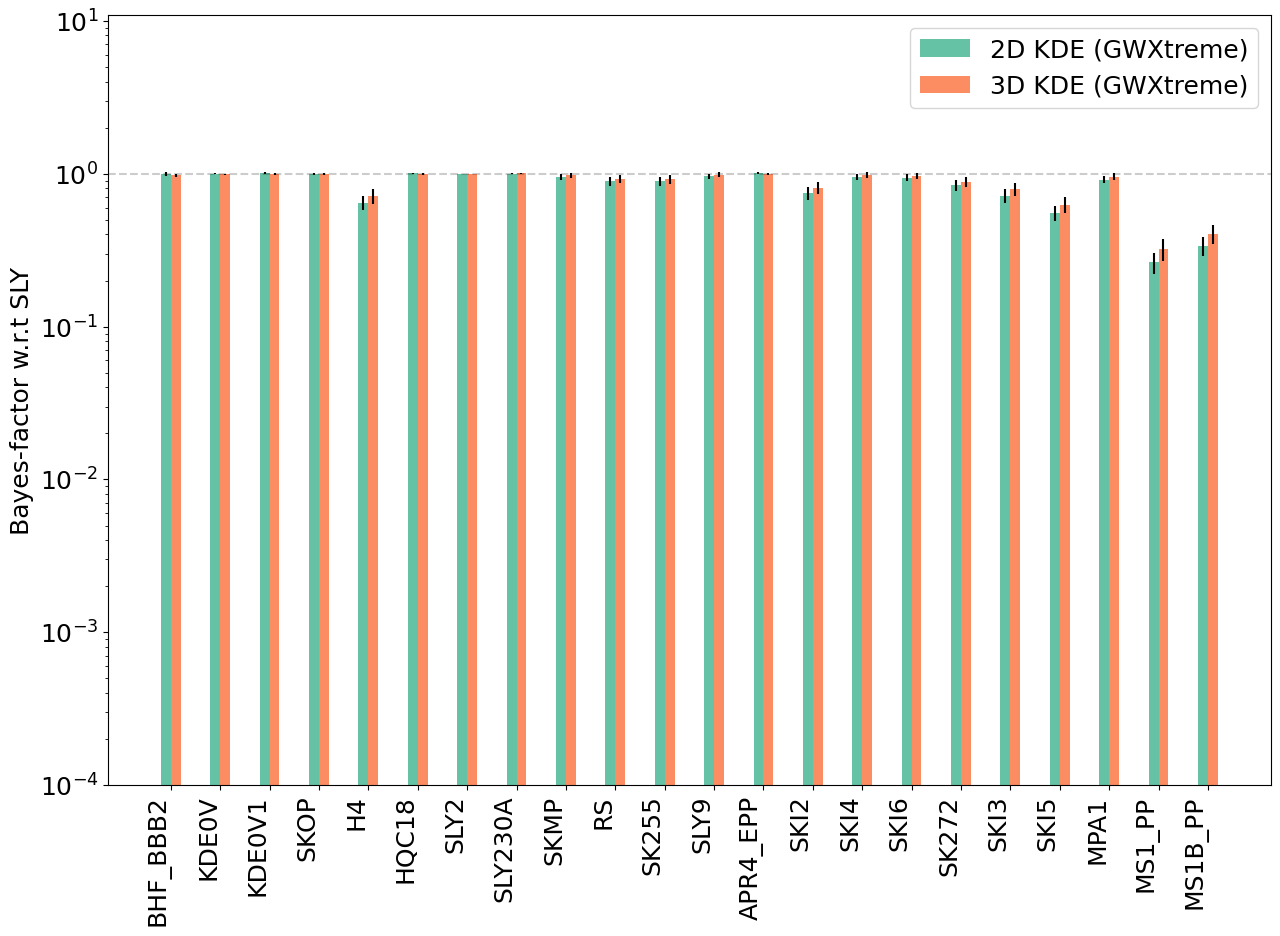
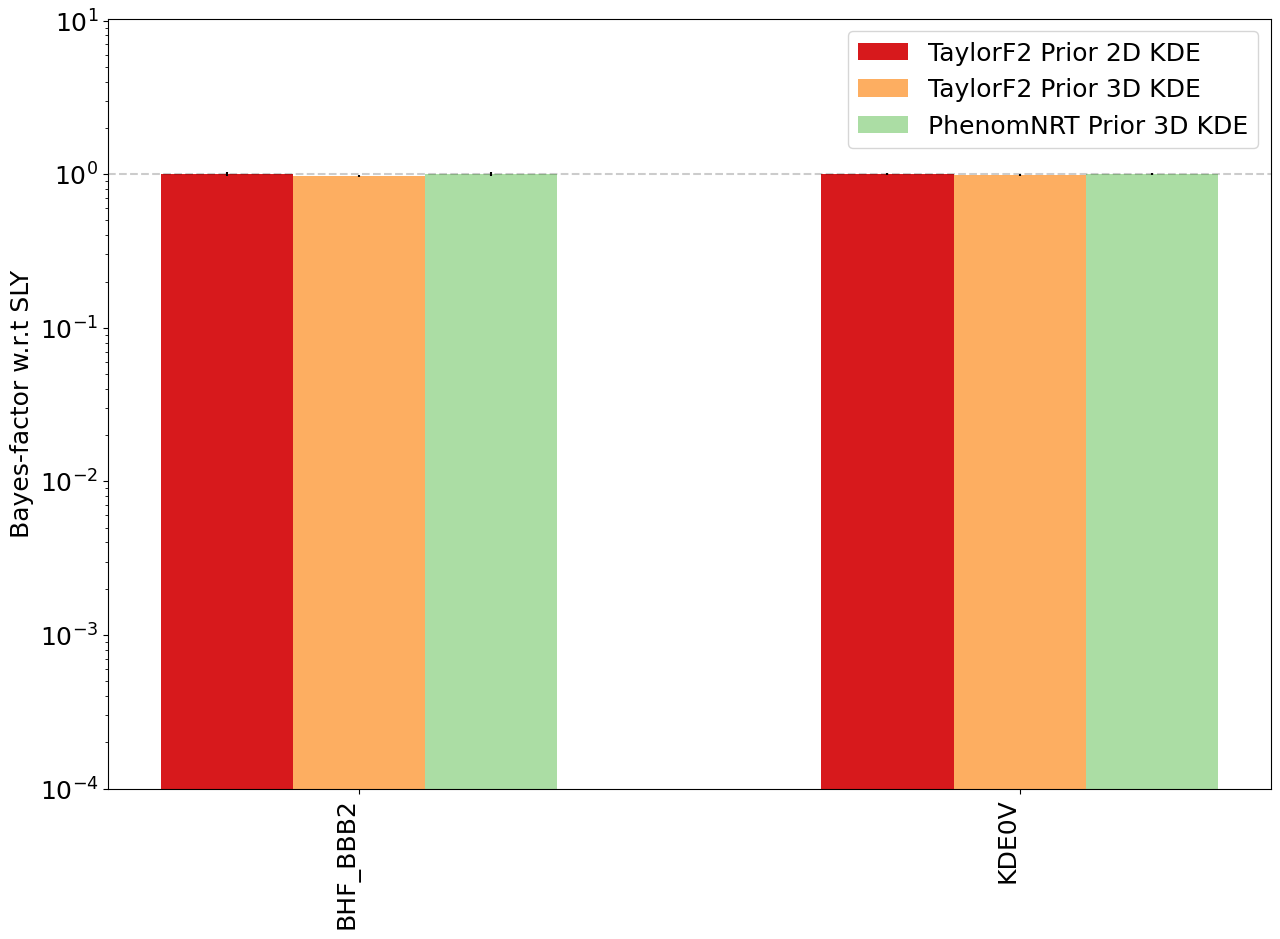
test run of the simulation BFs.

diff --git a/year3/lastStretch/simulBFs.py b/year3/lastStretch/simulBFs.py
@@ -3,6 +3,7 @@ import numpy as np
 import matplotlib.pyplot as plt
 import json
 import glob
+import os.path
 
 def singleEventBFs(Trials=1000):
 
@@ -15,6 +16,7 @@ def singleEventBFs(Trials=1000):
                   "71_1.37_1.33", "55_1.38_1.33", "78_1.35_1.32",
                   "241_1.31_1.28", "220_1.36_1.24", "282_1.35_1.32", "149_1.35_1.23", "237_1.36_1.26", 
                   "138_1.5_1.21", "235_1.4_1.3", "219_1.3_1.28", "260_1.48_1.33", "164_1.34_1.19"]
+    injections = ["282_1.58_1.37"] 
 
     #filenameEnd = "bns_example_result.json"
     filenameEnd = "bns_example_result_simplified.json"
@@ -43,6 +45,7 @@ def singleEventBFs(Trials=1000):
 
         methods = [modsel_uLTs, modsel_uLs,modsel_phenomPhenom]
         eosList = ["BHF_BBB2","KDE0V","KDE0V1","SKOP","H4","HQC18","SLY2","SLY230A","SKMP","RS","SK255","SLY9","APR4_EPP","SKI2","SKI4","SKI6","SK272","SKI3","SKI5","MPA1","MS1_PP","MS1B_PP"]
+        eosList = ["BHF_BBB2","KDE0V"]
         methods_BFs = []
         methods_trials = []
         for method in methods:
@@ -68,29 +71,28 @@ def singleEventBFs(Trials=1000):
             with open(output,"r") as f:
                 Dictionary = json.load(f)
 
-        for Index in range(len(labels)):
-            dictionary = {}
-            for eIndex in range(len(eosList)):
-                dictionary[eosList[eIndex]] = [methods_BFs[Index][eIndex],methods_trials[Index][eIndex]]
-            Dictionary[labels[Index]] = dictionary
+            for Index in range(len(labels)):
+                dictionary = {}
+                for eIndex in range(len(eosList)):
+                    dictionary[eosList[eIndex]] = [methods_BFs[Index][eIndex],methods_trials[Index][eIndex]]
+                Dictionary[labels[Index]] = dictionary
 
-        with open(output,"w") as f:
-            json.dump(Dictionary, f, indent=2, sort_keys=True)
+            with open(output,"w") as f:
+                json.dump(Dictionary, f, indent=2, sort_keys=True)
 
         else: # First time doing this sort of run so new file is made@
             Dictionary = {labels[Index]:{eosList[eIndex]:[methods_BFs[Index][eIndex],methods_trials[Index][eIndex]] for eIndex in range(len(eosList))} for Index in range(len(labels))}
             with open(output,"w") as f:
                 json.dump(Dictionary, f, indent=2, sort_keys=True)
 
-
 def singleEventPlots():
 
-    Dir = "/home/michael/projects/eos/GWXtreme_Tasks/year3/PhenomTaylorCompare/plots/data/"
-#    injections = ["282_1.58_1.37", "202_1.35_1.14", "179_1.35_1.23", "122_1.77_1.19", 
-#                  "71_1.37_1.33", "55_1.38_1.33", "78_1.35_1.32",
-#                  "241_1.31_1.28", "220_1.36_1.24", "282_1.35_1.32", "149_1.35_1.23", "237_1.36_1.26", 
-#                  "138_1.5_1.21", "235_1.4_1.3", "219_1.3_1.28", "260_1.48_1.33", "164_1.34_1.19"]
-    injections = ["282_1.58_1.37", "122_1.77_1.19", "55_1.38_1.33"] 
+    Dir = "/home/michael/projects/eos/GWXtreme_Tasks/year3/lastStretch/plots/data"
+    injections = ["282_1.58_1.37", "202_1.35_1.14", "179_1.35_1.23", "122_1.77_1.19", 
+                  "71_1.37_1.33", "55_1.38_1.33", "78_1.35_1.32",
+                  "241_1.31_1.28", "220_1.36_1.24", "282_1.35_1.32", "149_1.35_1.23", "237_1.36_1.26", 
+                  "138_1.5_1.21", "235_1.4_1.3", "219_1.3_1.28", "260_1.48_1.33", "164_1.34_1.19"]
+    injections = ["282_1.58_1.37"] 
 
     for injection in injections:
 
@@ -99,17 +101,12 @@ def singleEventPlots():
             data = json.load(f)
 
 
-#        labels = ["Phenom-Taylor (dL~,L~) Uniform Prior", "(Phenom-Taylor (L1,L2) Uniform Prior", "(Phenom-Phenom (L1,L2) Uniform Prior"]
-        labels = ["Phenom-Taylor (dL~,L~) Uniform Prior", "(Phenom-Taylor (L1,L2) Uniform Prior"]
-        Labels = ["2D KDE (GWXtreme)", "3D KDE (GWXtreme)"]
+        labels = ["TaylorF2 Prior 2D KDE", "TaylorF2 Prior 3D KDE", "PhenomNRT Prior 3D KDE"]
         eosList = ["BHF_BBB2","KDE0V","KDE0V1","SKOP","H4","HQC18","SLY2","SLY230A","SKMP","RS","SK255","SLY9","APR4_EPP","SKI2","SKI4","SKI6","SK272","SKI3","SKI5","MPA1","MS1_PP","MS1B_PP"]
-        #colors = ["#66c2a5","#fc8d62"] # Colors we initially used
-        #colors = ["#e41a1c", "#377eb8", "#4daf4a", "#984ea3"]
-        #colors = ["#e41a1c", "#377eb8"]
-        colors = ["#66c2a5", "#fc8d62"]
+        eosList = ["BHF_BBB2","KDE0V"]
+        colors = ["#d7191c","#fdae61","#abdda4"]
         x_axis = np.arange(len(eosList))
-#        spacing = [-.3,-.1,.1,.3]
-        spacing = [-.10,.10]
+        spacing = [-.20,0.,.20]
         plt.clf()
         plt.rcParams.update({'font.size': 18})
         plt.figure(figsize=(15, 10))
@@ -126,7 +123,7 @@ def singleEventPlots():
                 uncert = np.std(trials) * 2
                 uncerts.append(uncert)
 
-            plt.bar(x_axis+spacing[counter],BFs,.20,label=Labels[counter],color=colors[counter])
+            plt.bar(x_axis+spacing[counter],BFs,.20,label=labels[counter],color=colors[counter])
             plt.errorbar(x_axis+spacing[counter],BFs,yerr=uncerts,ls="none",ecolor="black")
             counter += 1
 
@@ -144,7 +141,9 @@ def multipleEventBFs():
 
     uLTs_Dir = "../../year2/bilby_runs/simulations/outdir/1st_Phenom_Taylor/uniformP_LTs/phenom-injections/TaylorF2"
     uLs_Dir = "../../year2/bilby_runs/simulations/outdir/1st_Phenom_Taylor/uniformP_Ls/IMRPhenomPv2_NRTidal/APR4_EPP"
+    phenomPhenom_Dir = "../../year2/bilby_runs/simulations/outdir/1st_Phenom_Phenom/IMRPhenomPv2_NRTidal/APR4_EPP"
 
+    ### Stopped here
     uLTs_Files = glob.glob("{}/*/*simplified.json".format(uLTs_Dir)) + glob.glob("{}/troublesome/*/*simplified.json".format(uLTs_Dir))
     uLs_Files = glob.glob("{}/*/*simplified.json".format(uLs_Dir)) + glob.glob("{}/troublesome/*/*simplified.json".format(uLs_Dir))
 
@@ -194,3 +193,4 @@ def multipleEventBFs():
     with open("plots/2D_3D/data/allJoint_2D_3D_BFs.json","w") as f:
         json.dump(Dictionary, f, indent=2, sort_keys=True)
 
+### Still need joint BF plotter

diff --git a/year3/lastStretch/eventBFs.py b/year3/lastStretch/eventBFs.py
@@ -68,7 +68,6 @@ def singleEventBFs(Trials=1000):
         with open(output,"w") as f:
             json.dump(Dictionary, f, indent=2, sort_keys=True)
 
-
     else: # First time doing this sort of run so new file is made
         Dictionary = {labels[Index]:{eosList[eIndex]:[methods_BFs[Index][eIndex],methods_trials[Index][eIndex]] for eIndex in range(len(eosList))} for Index in range(len(labels))}
         with open(output,"w") as f:
